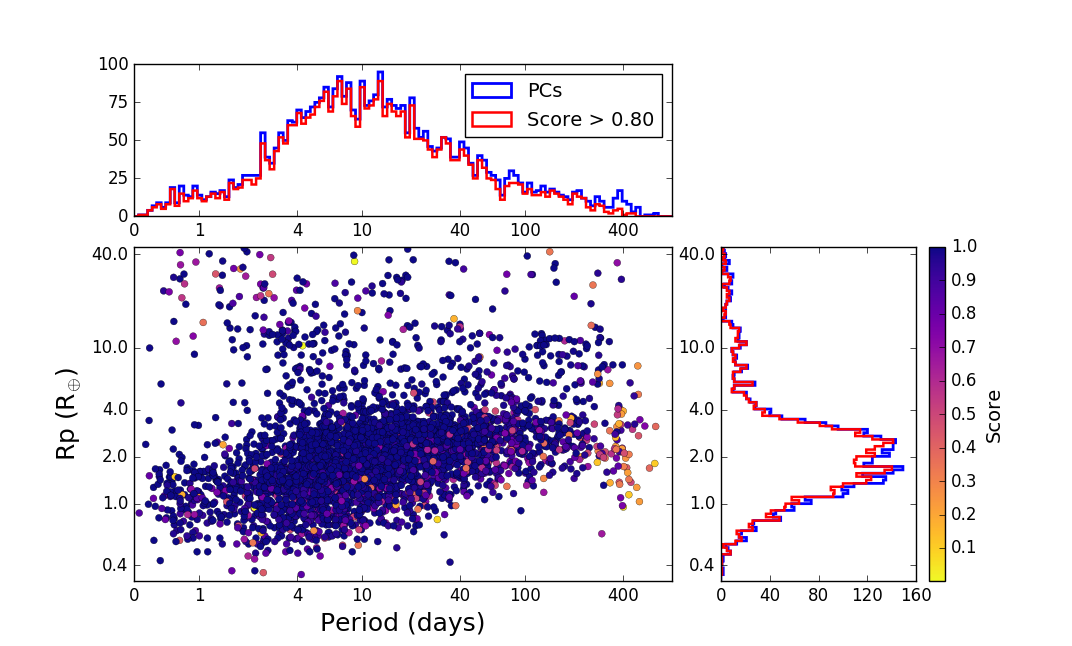
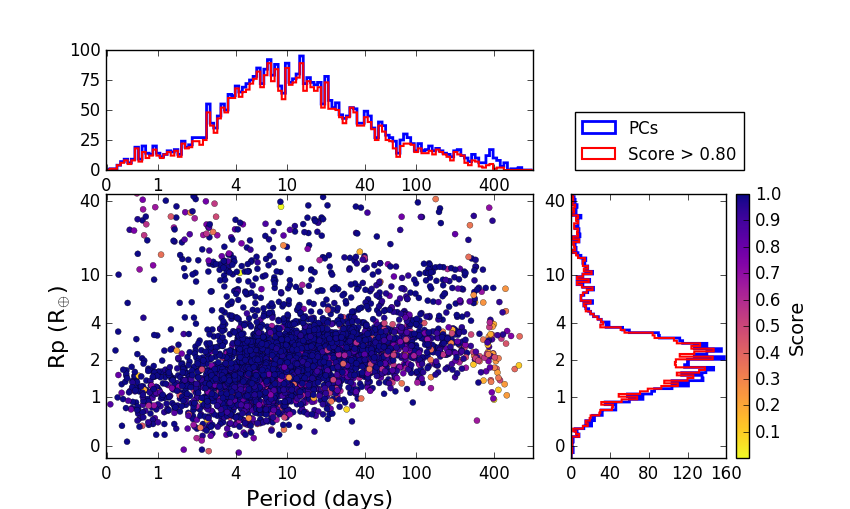
heading on vacation now. New plot about c adn r

diff --git a/section-CompAndReliability.tex b/section-CompAndReliability.tex
@@ -1,10 +1,10 @@
-\subsection{DR25 KOI Catalog Completeness, Effectivness and Reliability}
+\subsection{Catalog Completeness, Effectivness and Reliability}
 \label{s:candr}
 
 Here we discuss the performance of the robovetter and the measured completeness and reliability of the catalog in terms of raw parameters such as MES and period, as well as derived parameters such as planet radius and insolation flux.  For the later, we use the parameters provided by the supplemental DV fits.  \citet{Christiansen2017} shows that the radii based on the MCMC fits match those of the supplemental DV fits. We do not provided MCMC fits of the entire set of false positives in the \opstce\ set and so cannot use them for our analysis here.
 
 \subsubsection{Completeness}
-The completeness of the Robovetter is the fraction of true transiting events that are determined to be planet candidates.  We are only measuring the completeness of the Robovetter. If a true transit was not returned by the \Kepler\ pipeline as a TCE, the Robovetter never saw it and it is not part of our completeness measurements. To understand the completeness of the \Kepler\ pipeline see \citet{Christiansen2017} and \citet{Burke2017} [ REFERENCE PAPERS or KSCI's here].  The completeness is calculated using the \ninjtces\ \injtce\ events recovered by the pipeline and discussed in \S\ref{injectsec}.  Across the entire set of injections, periods ranging from 0.5--500\,d, the completeness is 85.2 per cent. As expected the completeness of the catalog is higher for transits at shorter periods and higher significance and lower for longer periods and less significant planets. Figure~\ref{f:1dcomparel} shows how the completeness varies with Period and MES. 
+The completeness of the Robovetter is the fraction of true transiting events that are determined to be planet candidates.  We are only measuring the completeness of the Robovetter. If a true transit was not returned by the \Kepler\ pipeline as a TCE, the Robovetter never saw it and it is not part of our completeness measurements. To understand the completeness of the \Kepler\ pipeline see \citet{Christiansen2017} and \citet{Burke2017} [ REFERENCE PAPERS or KSCI's here].  The completeness is calculated using the \ninjtces\ \injtce\ events recovered by the pipeline and discussed in \S\ref{injectsec}.  Across the entire set of injections, periods ranging from 0.5--500\,d, the completeness is 85.2 per cent. As expected the completeness of the catalog is higher for transits at shorter periods and higher significance and lower for longer periods and less significant planets. Figure~\ref{f:1dcompare} shows how the completeness varies with Period and MES. 
 
 [Need to show that completeness drops off right before 90 days because of odd/even flag]
 
@@ -23,7 +23,8 @@ To summarize these results, we include Figure~\ref{f:score} which provides the c
 \begin{figure*}[h!]
  \begin{center}
   \includegraphics[width=1.0\linewidth]{fig-compRel1D-PerMes.png}
-  \caption{\label{f:1dcomparel} The completeness (right) and reliability (left) of the DR25 catalog plotted for various Period (top) and MES (bottom) bins.}
+  \caption{ The completeness (right) and reliability (left) of the DR25 catalog plotted for various Period (top) and MES (bottom) bins.}
+  \label{f:1dcompare}
  \end{center}
  \end{figure*}
 
@@ -31,7 +32,8 @@ To summarize these results, we include Figure~\ref{f:score} which provides the c
 \begin{figure*}[h!]
 \begin{center}
 \includegraphics[width=0.95\linewidth]{fig-completeReliabilityCard.png}
-\caption{\label{f:score} A coarse binning of the completeness and reliability across period and MES. On the left, the percentage for reliability is given in each box with the number of OPS-PCs and the number of OPS-FPs written below it.  On the right, the percentage for the completeness and the number of \injtce s for that box is given. The bottom two plots give the reliability and completeness just based on the FGK dwarf stars. }
+\caption{ A coarse binning of the completeness and reliability across period and MES. On the left, the percentage for reliability is given in each box with the number of OPS-PCs and the number of OPS-FPs written below it.  On the right, the percentage for the completeness and the number of \injtce s for that box is given. The bottom two plots give the reliability and completeness just based on the FGK dwarf stars. }
+\label{f:score}
 \end{center}
 \end{figure*}
 

diff --git a/section-catalogsummary.tex b/section-catalogsummary.tex
@@ -1,26 +1,28 @@
 \subsection{Summary of the Exoplanet Catalog}
 
-The final DR25 KOI catalog, available at NExScI contains all of the planet candidates and all TCEs that did not fail due to one of the not-transit like tests (\S\ref{s:ntl}). A summary of the planet radii and period of the planet candidates available in this catalog can be seen in Figure~\ref{f:catalogPlot}. The deficit of planets near 1.8\,R$_{p}$ is consistent with the study of \citet{Fulton2017} where they see a natural gap in the abundance of planets between super-Earths and sub-Neptunes by obtaining precise stellar parameters. A clear excess of candidates exists for PCs with periods near to 370\,d.  After a score cut, this excess disappears. While we have provided an easy way to make additional cuts on the PC population of the catalog with the disposition score, when discussing the PC population here we are using the pure dispositions of the Robovetter unless otherwise stated.
+The final DR25 KOI catalog, available at NExScI contains all of the planet candidates and all TCEs that did not fail due to one of the not-transit like tests (\S\ref{s:ntl}). 
 
 
-\begin{figure*}
-    \centering
-    \includegraphics[width=0.9\linewidth]{fig-radiusPeriodScore-hist.png}
-    \caption{DR25 Exoplanet Candidates plotted as planet radius against Period with the color representing the disposition score. Those plotted in orange and yellow are those whose metrics lie near to the lest confident PCs.  The period and planet radii distributions are plotted on the top and on the left, respectively, in blue. The red line shows the distributions if you only consider those KOIs with a score greater than 0.8. }
-    \label{f:catalogPlot}
-\end{figure*}
 
-To summarize, some key stats of the DR25 KOI catalog are as follows:
+
+To summarize, some global statistics of the DR25 KOI catalog are as follows:
 \begin{itemize}
     \item 8054 KOIs
     \item 4034 Planet Candidates
-    \item 1762 KOIs identified as likely eclipsing binaries.
+   % \item 1762 KOIs identified as likely eclipsing binaries.
     \item 85 per cent overall completeness
     \item 97 per cent overall reliability
 \end{itemize}
 
 
+A summary of the planet radii and period of the planet candidates available in this catalog can be seen in Figure~\ref{f:catalogPlot}. The deficit of planets near 2.0\,R$_{p}$ is consistent with the study of \citet{Fulton2017} where they see a natural gap in the abundance of planets between super-Earths and sub-Neptunes by obtaining precise stellar parameters. A clear excess of candidates exists for PCs with periods near to 370\,d.  After a score cut, this excess disappears. While the disposition score provides an easy way to make an additional cut on the PC population at long periods, when discussing the catalog PCs below we are using the pure dispositions of the Robovetter unless otherwise stated. 
 
+\begin{figure*}
+    \centering
+    \includegraphics[width=1.1\linewidth]{fig-radiusPeriodScore-hist.png}
+    \caption{DR25 planet candidates plotted as planet radius against Period with the color representing the disposition score. Those plotted in orange and yellow are those whose metrics lie near to the lest confident PCs.  The period and planet radii distributions are plotted on the top and on the left, respectively, in blue. The red line shows the distributions if you only consider those KOIs with a score greater than 0.8. }
+    \label{f:catalogPlot}
+\end{figure*}
 
 \begin{itemize}
     \item [o] plot of pradius vs. period and/or pradius vs insol. flux

diff --git a/section-robovetter.tex b/section-robovetter.tex
@@ -1,5 +1,5 @@
 \label{s:robovetter}
-The dispositioning of the TCEs into the categories of PC and FP  is entirely automated and is performed by a piece of code called the Robovetter\fottnote{GITHUB link}. This code takes as input a variety of metrics that all evaluate the TCE in different ways.  In this section we describe the different metrics as well as the logic the Robovetter uses to make its decisions. 
+The dispositioning of the TCEs into the categories of PC and FP  is entirely automated and is performed by a piece of code called the Robovetter\footnote{GITHUB link}. This code takes as input a variety of metrics that all evaluate the TCE in different ways.  In this section we describe the different metrics as well as the logic the Robovetter uses to make its decisions. 
 
 Because the TCE population changed significantly between DR24 and DR25, the Robovetter had to be improved in order to obtain an acceptable performance.  Also, because we now have a population of known false alarms (\invtce\ and \scrtce), the Robovetter could be tuned by balancing its completeness against its effectiveness at removing known false alarms. This is change from previous KOI catalogs that prioritized completeness above all else.  In order to sufficiently remove the long period excess of false alarms, this Robovetter introduces new metrics that evaluate individual transits. This expands the work that the code Marshall \citep{Mullally2015c} performed for the DR24 KOI catalog. 
 
@@ -429,7 +429,7 @@ If the primary and secondary eclipses of an EB are similar in depth, and the sec
 
 Short-period eclipsing binaries will often show out-of-eclipse variability due to tidal forces that deform the star from a perfect spheroid. The variability manifests as quasi-sinusoidal variations at either the period, or half the period, of the binary.
 
-We use the information from SWEET (see~\S\ref{sweetntlsec}) to detect these cases. If a transit-like TCE has a SWEET SNR greater than 50, an amplitude less than the TCE transit depth in either the DV and ALT detrendings, an amplitude greater than 5,000~ppm, and a period less than 10 days, we fail it as a stellar system.
+We use the information from SWEET (see~\S\ref{s:sweetntl}) to detect these cases. If a transit-like TCE has a SWEET SNR greater than 50, an amplitude less than the TCE transit depth in either the DV and ALT detrendings, an amplitude greater than 5,000~ppm, and a period less than 10 days, we fail it as a stellar system.
 
 
 

diff --git a/dr25catalog.tex b/dr25catalog.tex
@@ -115,16 +115,16 @@ Overall, the purpose of this paper is to describe how we sifted through the DR25
 
 To Do List:
 \begin{itemize}
-\item Introduction including a summary of what's new here
+\item History of Kepler and Exoplanets, context
 \item Table of our results
 \item Table of INV/SCR cleaned objects
-\item Discussion of where Robovetter needs improvements -- specific known failures.
+\item Discussion of where Robovetter needs improvements -- specific known failures. State that some confirmed planets failed.
 \item optimization of the catalog [STEVE and JEFF]
 \item INJ-TCEs in more detail [JESSIE]
-\item CHASES description
-\item Discussion/List of Confirmed that Failed.
-\item Multi-Planet Systems
+\item CHASES description [Chris]
+\item are there new Multi-Planet Systems to discuss
 \item How to use all this information to do occurrence rates (basically)
+\item description of how the number of planets does not change with score cut vs just using dispositions for occurrence rates.
 \item The Catalog using the derived fitted information, completeness, reliability especially.
 
 \end{itemize}

diff --git a/section-reliability-calc.tex b/section-reliability-calc.tex
@@ -15,7 +15,7 @@
 \subsection{Calculating Completeness and Reliability}
 We use the \injtce\, \scrtce\ and \invtce\ data sets to determine how effective the Robovetter, \S\ref{s:robovetter}, is at identifying false alarms while not removing true transits. Ultimately we would like a measure of the Robovetter completeness, the fraction of true transits that are created into PCs, and the Robovetter reliability, the fraction of PCs that are truly PCs.   
 
-\subsbusection{Completeness}
+\subsubsection{Completeness}
 Completeness is calculated by dividing the number of on-target \injtce s (N$_{inj}$) by the number that are turned PCs (N$_{PC_{inj}}$). 
 
 \begin{equation}
